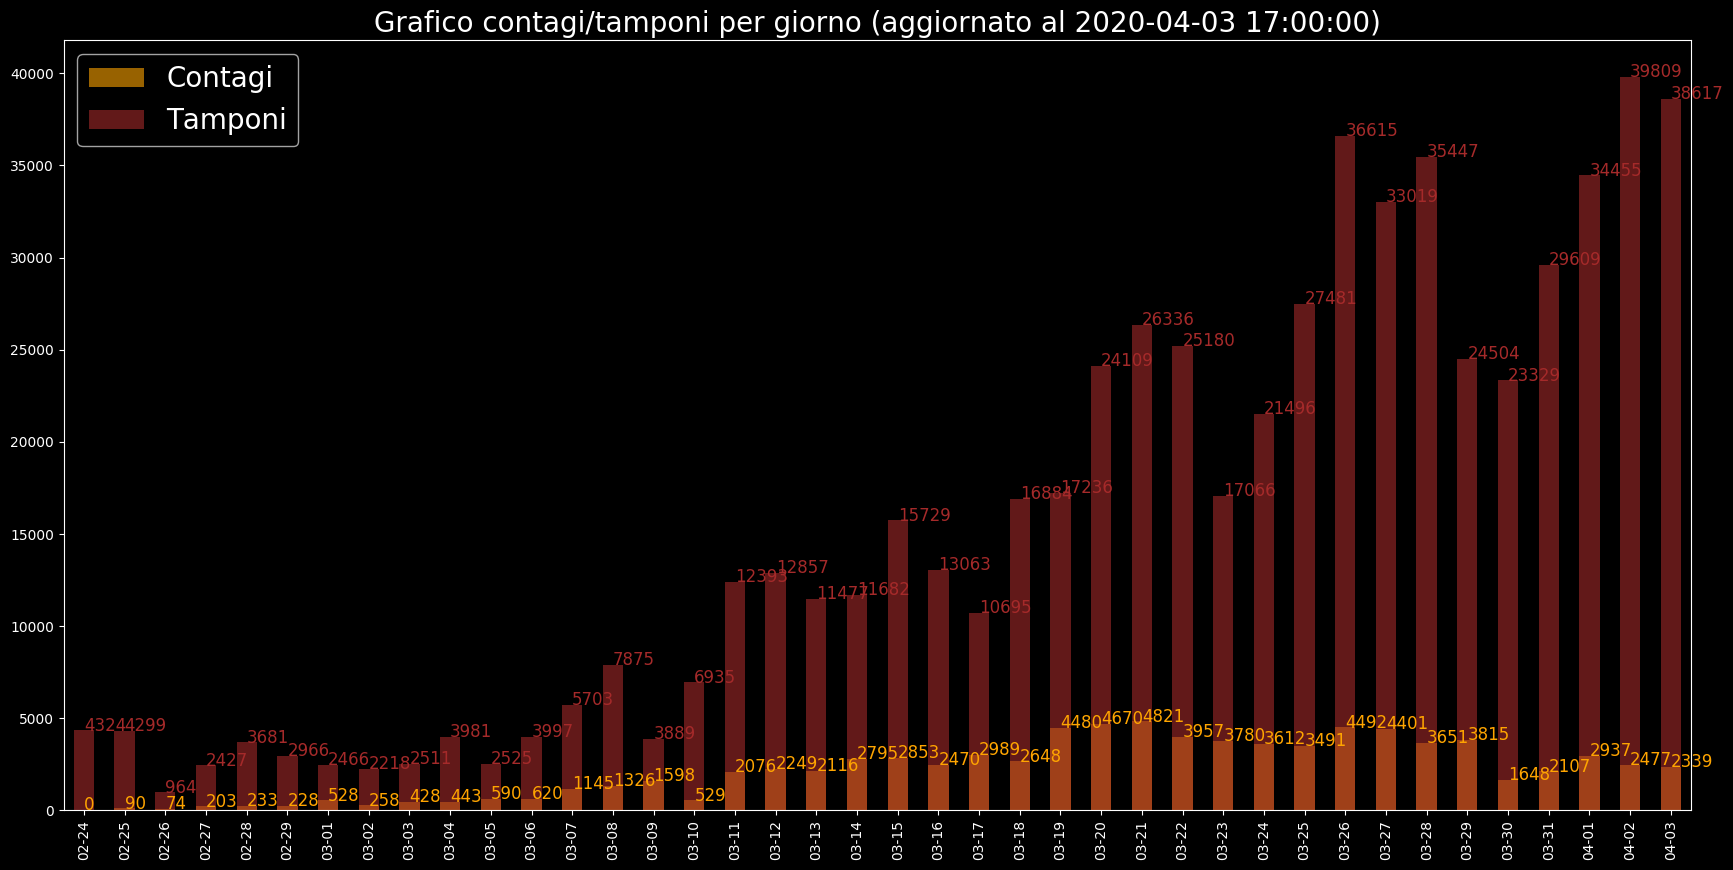
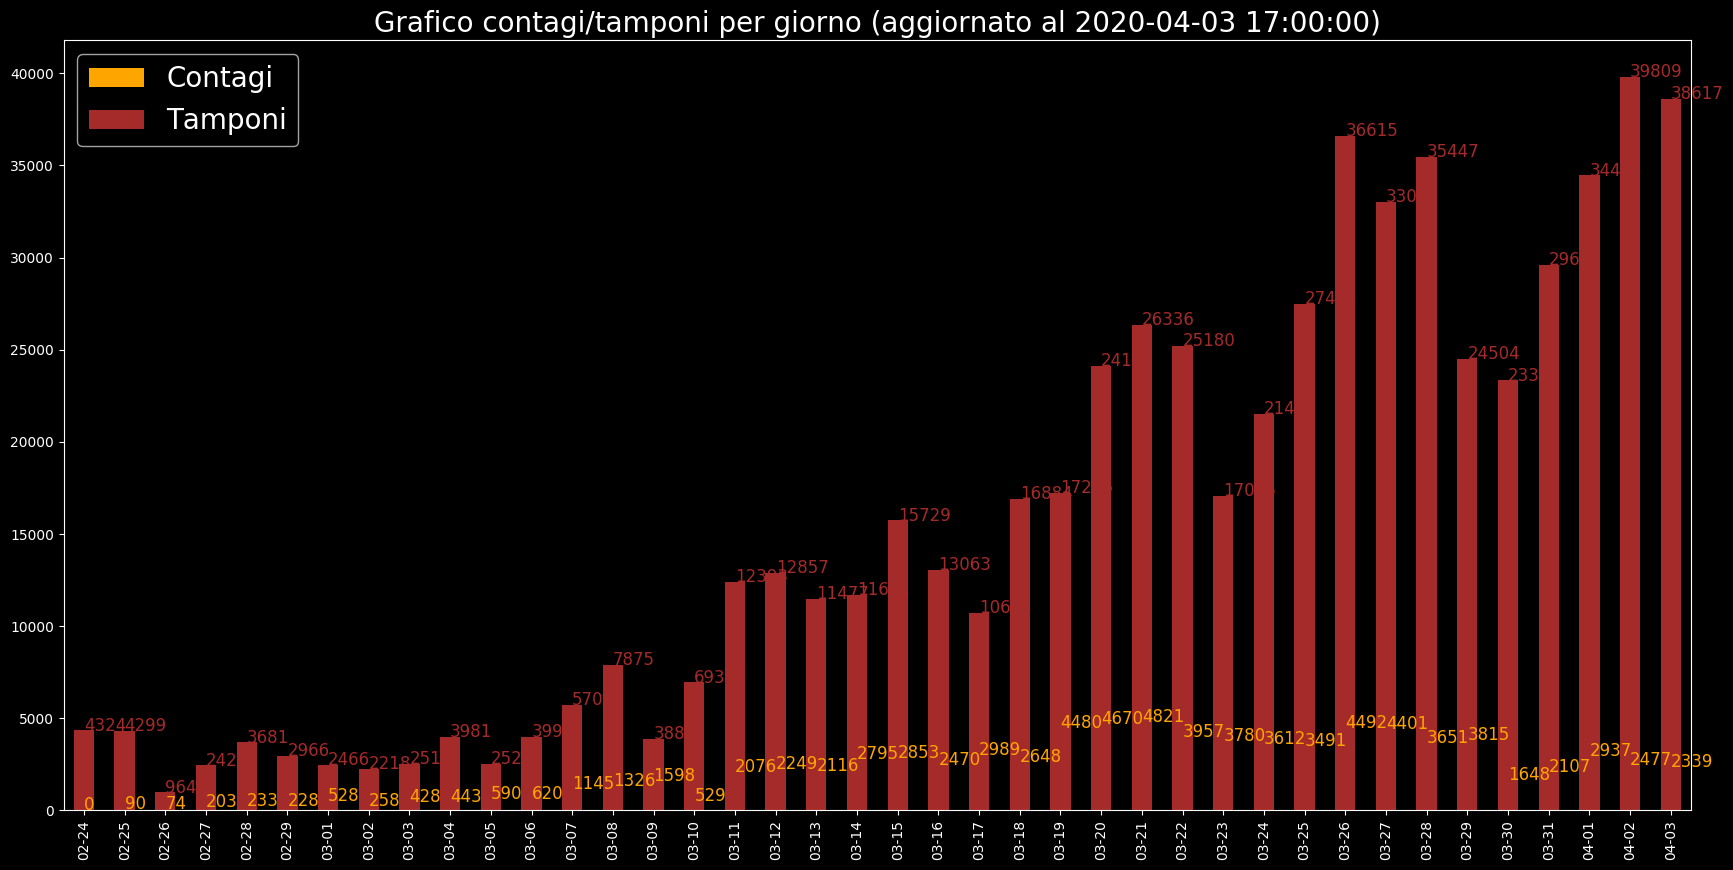
Polished code

Changed region(s): [[0.0312, 0.0931, 0.9971, 0.931], [0.0312, 0.0621, 0.0935, 0.1552]]

diff --git a/covid19graphs/src/TampsCont.py b/covid19graphs/src/TampsCont.py
@@ -100,8 +100,8 @@ def main():
     listacolori = ["orange", "brown"]
 
     # Grafico a linee
-    contseries.plot.bar(alpha=.6, color="orange", label="Contagi")
-    tampseries.plot.bar(alpha=.6, color="brown", label="Tamponi")
+    contseries.plot.bar(color="orange", label="Contagi")
+    tampseries.plot.bar(color="brown", label="Tamponi")
     # Aggiungo testo e mostro grafico
     aggiungitesto(giornocasi, listaseriescelte, listacolori)
     datatoday = listadati[-1][0].split("T")[0]
